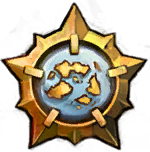
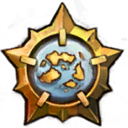
add new smaller acc.png and create a new file for loading (although it is still the same, may need to change it at some point)

diff --git a/app/browser/app.html b/app/browser/app.html
@@ -144,7 +144,7 @@
             </encryption-controller>
 
             <dialog id="game-starting-dialog" class="no-drag dialog-game-starting">
-                <img class=".loading" src="assets/acc.png" />
+                <img class=".loading" src="assets/loading.png" />
             </dialog>
 
             <dialog id="edit-account-dialog" class="no-drag">
